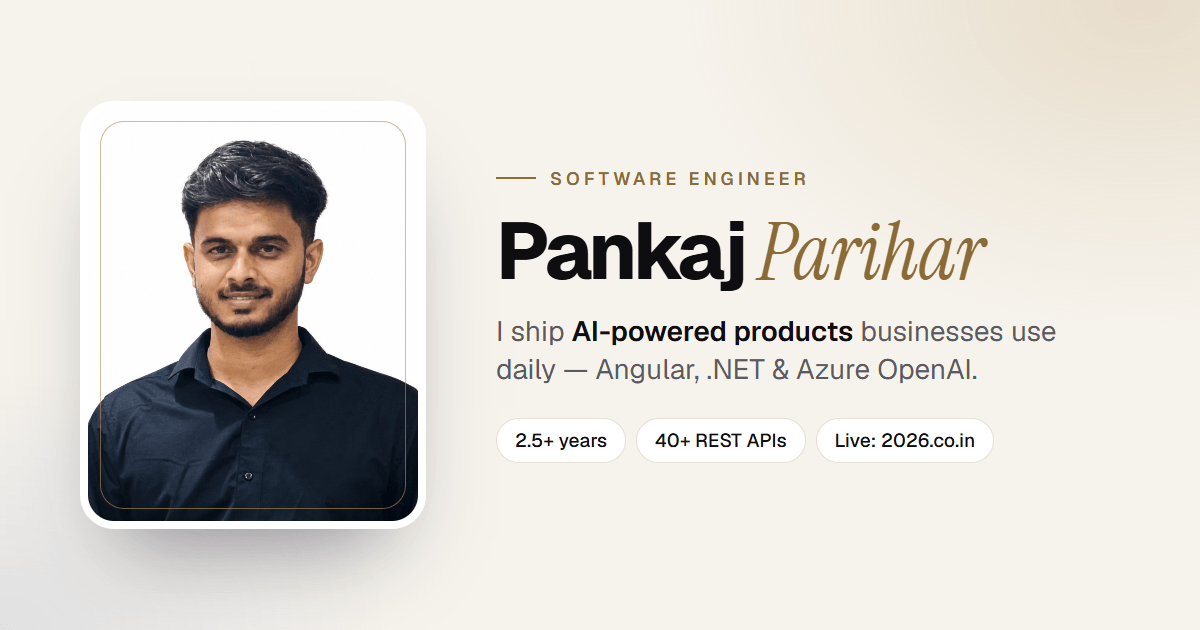
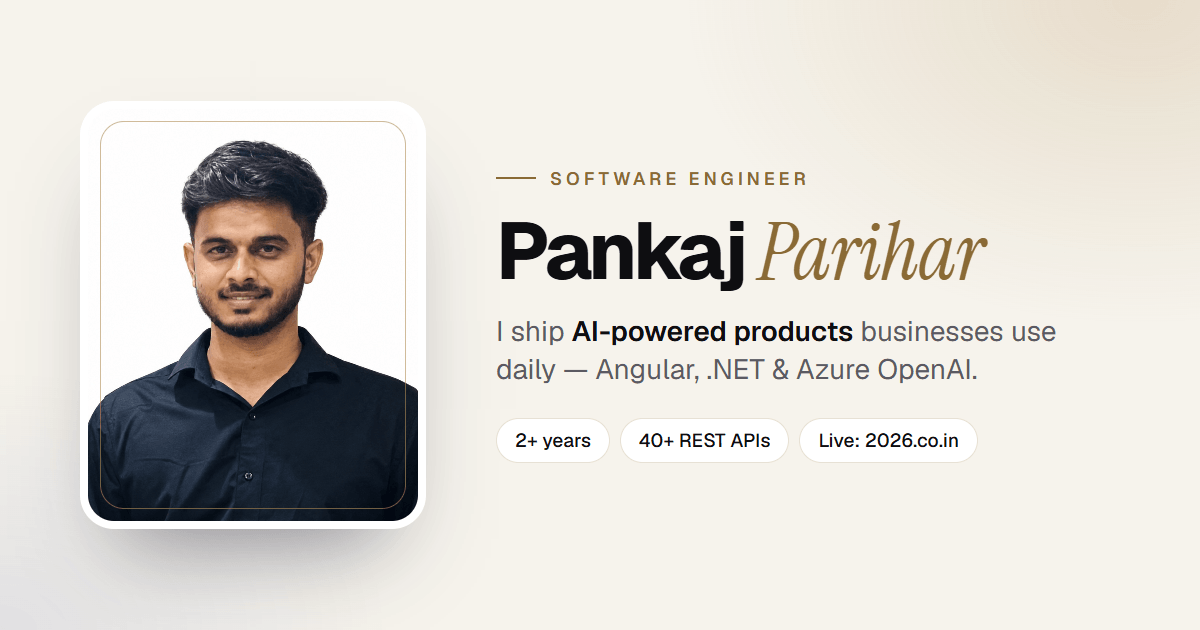
Experience: 2+ years everywhere (site, OG image, resume PDF)
- profile.experience.years 2.5 -> 2; pitch, summary, hero copy and
  meta description updated (stats, FAQ and summary dialog follow the data)
- OG share image regenerated with "2+ years"
- Resume PDF: original design, summary line now "2+ years"

Changed region(s): [[0.4317, 0.6635, 0.8325, 0.7238]]

diff --git a/src/data/profile.ts b/src/data/profile.ts
@@ -15,12 +15,12 @@ export const profile = {
     rest: 'with Angular, .NET & Azure OpenAI.',
   },
   pitch:
-    'Software engineer with 2.5+ years shipping CRM & ERP products at Dial ERP Technology — Angular, ASP.NET Core, MongoDB and Azure OpenAI. Also the engineer behind 2026.co.in, a QR-ordering platform live in cafés.',
+    'Software engineer with 2+ years shipping CRM & ERP products at Dial ERP Technology — Angular, ASP.NET Core, MongoDB and Azure OpenAI. Also the engineer behind 2026.co.in, a QR-ordering platform live in cafés.',
   summary:
-    'Software Engineer with 2.5+ years of experience in Angular, ASP.NET Core and Flutter. At Dial ERP Technology I build enterprise CRM & ERP products: REST APIs in ASP.NET Core, Angular (Material) front-ends, WhatsApp automation with Meta’s Cloud API, and AI features with Azure OpenAI and Azure AI Search.',
+    'Software Engineer with 2+ years of experience in Angular, ASP.NET Core and Flutter. At Dial ERP Technology I build enterprise CRM & ERP products: REST APIs in ASP.NET Core, Angular (Material) front-ends, WhatsApp automation with Meta’s Cloud API, and AI features with Azure OpenAI and Azure AI Search.',
   experience: {
     /** Stated by Pankaj (decision D5). Shown until `firstRoleStart` is known. */
-    years: 2.5,
+    years: 2,
     /** TODO(pankaj): 'YYYY-MM' start of the first role — the total is then calculated on every build. */
     firstRoleStart: null as string | null,
   },
@@ -53,7 +53,7 @@ export const profile = {
     naukri: null as string | null, // ONLY a public URL that opens without login (decision D15)
   },
   resume: {
-    /** Pankaj's own resume (Google Docs export), with the experience line updated to 2.5+ years. */
+    /** Pankaj's own resume (Google Docs export), with the experience line updated to 2+ years. */
     pdf: '/resume/Pankaj-Parihar-Resume.pdf',
     docx: null as string | null,
     updated: 'Nov 2026',

diff --git a/scripts/og-template.html b/scripts/og-template.html
@@ -125,7 +125,7 @@
         <h1>Pankaj <em>Parihar</em></h1>
         <p class="role">I ship <b>AI-powered products</b> businesses use daily — Angular, .NET &amp; Azure OpenAI.</p>
         <div class="chips">
-          <span class="chip">2.5+ years</span>
+          <span class="chip">2+ years</span>
           <span class="chip">40+ REST APIs</span>
           <span class="chip">Live: 2026.co.in</span>
         </div>
